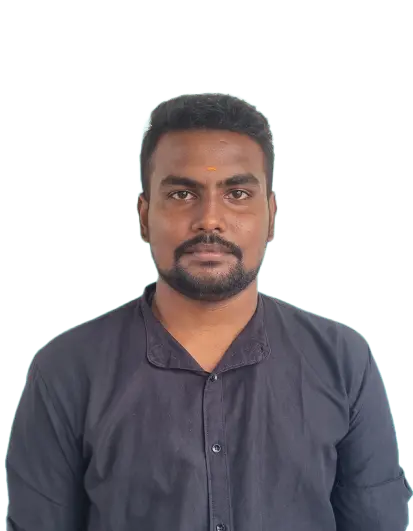
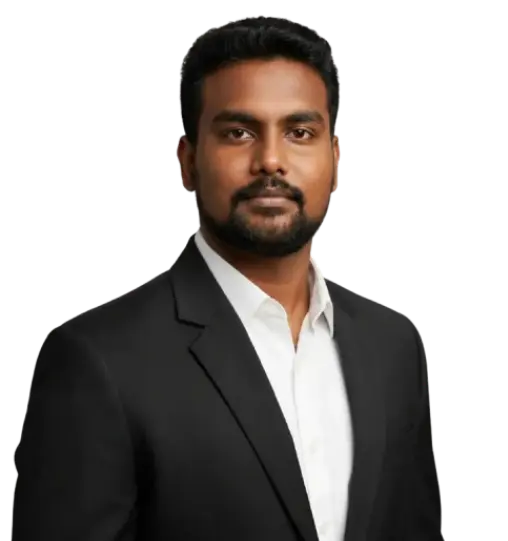
Changes

diff --git a/index.html b/index.html
@@ -529,7 +529,8 @@
                             <div class="absolute top-0 right-0 w-32 h-32 bg-blue-50 blur-[50px]"></div>
                             <div class="grid grid-cols-1 md:grid-cols-3 gap-5 relative z-10">
                                 <!-- Date -->
-                                <div class="space-y-1 border-b md:border-b-0 pb-4 md:pb-0 relative">
+                                <div
+                                    class="space-y-1 border-b-[2px] border-dashed border-slate-400 md:border-none pb-4 md:pb-0 relative">
                                     <div
                                         class="flex items-center gap-2 text-blue-600 uppercase tracking-[0.2em] text-[10px] font-black">
                                         <i class="far fa-calendar-alt"></i>
@@ -543,7 +544,8 @@
                                     </div>
                                 </div>
                                 <!-- Total Slot -->
-                                <div class="space-y-1 border-b md:border-b-0 pb-4 md:pb-0 md:pl-4 relative">
+                                <div
+                                    class="space-y-1 border-b-[2px] border-dashed border-slate-400 md:border-none pb-4 md:pb-0 md:pl-4 relative">
                                     <div
                                         class="flex items-center gap-2 text-emerald-500 uppercase tracking-[0.2em] text-[10px] font-black">
                                         <i class="fas fa-users"></i>
@@ -1164,7 +1166,8 @@
                     <div class="w-full bg-slate-50 rounded-[calc(2rem-2px)] p-6 sm:p-8 h-full">
                         <div class="flex flex-col md:flex-row gap-6 lg:gap-8 items-center md:items-stretch h-full">
                             <!-- Left: Heading & Description -->
-                            <div class="md:w-[70%] flex flex-col justify-center text-left md:pr-4 relative">
+                            <div
+                                class="md:w-[70%] flex flex-col justify-center text-left md:pr-4 relative border-b-[2px] border-dashed border-slate-400 md:border-none pb-6 md:pb-0">
                                 <div class="flex items-center justify-start gap-3 mb-2">
                                     <div class="border-2 border-blue-200 rounded-xl p-1.5 bg-white">
                                         <img src="assets/tally.webp" alt="Tally Logo"
@@ -1804,7 +1807,7 @@
                         class="bg-white rounded-2xl shadow-[0_4px_20px_-4px_rgba(0,0,0,0.1)] border border-slate-100 overflow-hidden hover:shadow-[0_8px_30px_-4px_rgba(0,0,0,0.15)] transition-all duration-300 group min-w-[280px] max-w-[320px] flex-shrink-0 snap-start flex flex-col">
                         <div class="h-56 w-full bg-white relative overflow-hidden">
                             <div
-                                class="absolute inset-0 bg-contain bg-bottom bg-no-repeat transition-transform duration-500 group-hover:scale-110 bg-santhosh">
+                                class="absolute inset-0 bg-contain bg-bottom bg-no-repeat transition-transform duration-500 group-hover:scale-110 bg-jeyaram">
                             </div>
                             <div
                                 class="absolute inset-0 bg-gradient-to-t from-black/60 to-transparent opacity-0 transition-opacity duration-300">

diff --git a/style.min.css b/style.min.css
@@ -1,4 +1,4 @@
-@keyframes marquee {
+@keyframes marquee {
     0% {
         transform: translateX(0);
     }
@@ -975,7 +975,7 @@ html {
     background-image: url('assets/ayoop.webp');
 }
 
-.bg-santhosh {
+.bg-jeyaram {
     background-image: url('assets/jeyaram.webp');
 }
 
@@ -1065,12 +1065,15 @@ html {
 .bg-event-gradient {
     background: linear-gradient(90deg, rgba(125, 199, 255, .4), rgba(198, 173, 255, .4), rgba(249, 173, 162, .4), rgba(251, 193, 81, .4));
 }
+
 .text-count-color {
     color: #000067;
 }
+
 .filter-tally-logo {
     filter: brightness(0) saturate(100%) invert(18%) sepia(91%) saturate(3078%) hue-rotate(222deg) brightness(97%) contrast(102%);
 }
+
 .bg-santhosh {
     background-image: url('assets/santhosh.webp');
 }